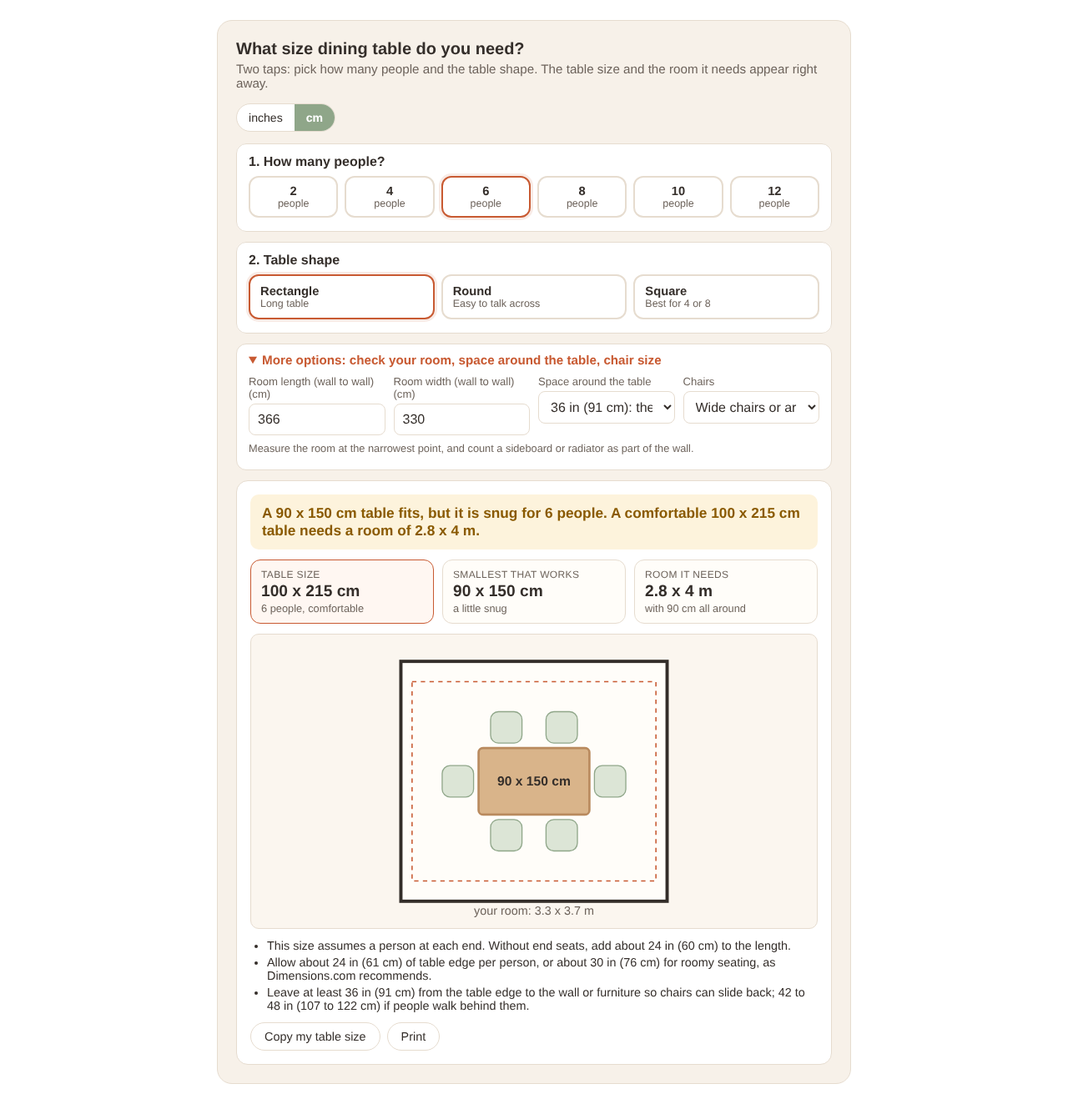
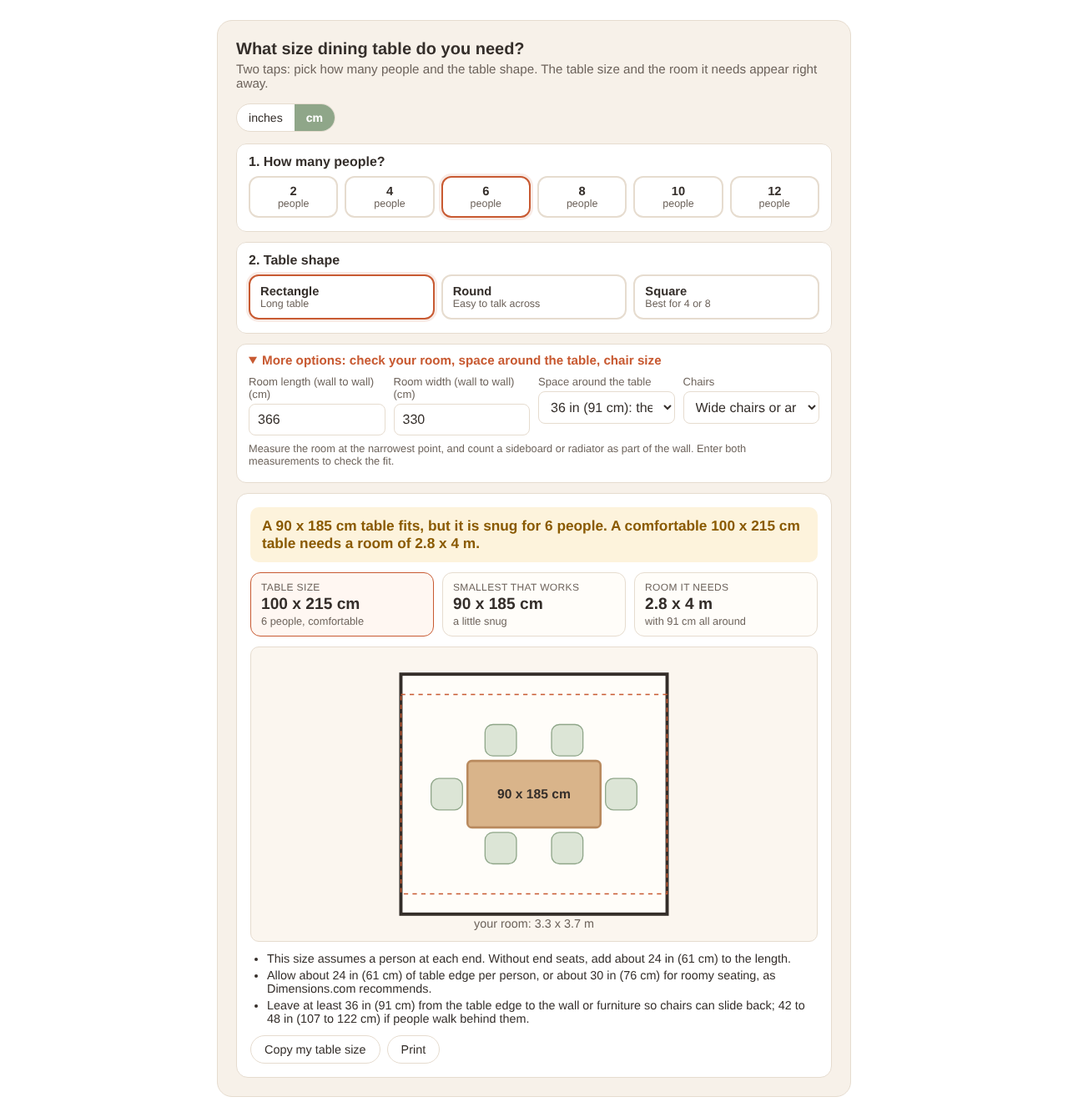
Dining table: fact-check fixes live, embed page 2789, hub section, tests
Claude-Session: https://claude.ai/code/session_01NA5LVV4VZ27gRjP7KysXbg

Changed region(s): [[0.2188, 0.031, 0.7812, 0.7742], [0.25, 0.7742, 0.75, 0.96]]

diff --git a/tools/dining-table/content.html b/tools/dining-table/content.html
@@ -81,7 +81,7 @@
 <label><span>Space around the table</span><select id="cl"><option value="36" selected>36 in (91 cm): the usual minimum</option><option value="42">42 in (107 cm): easier to walk behind chairs</option><option value="48">48 in (122 cm): busy room or big chairs</option><option value="60">60 in (152 cm): wheelchair access</option></select></label>
 <label><span>Chairs</span><select id="cs"><option value="0" selected>Standard dining chairs</option><option value="1">Wide chairs or armchairs</option></select></label>
 </div>
-<p class="hint">Measure the room at the narrowest point, and count a sideboard or radiator as part of the wall.</p>
+<p class="hint">Measure the room at the narrowest point, and count a sideboard or radiator as part of the wall. Enter both measurements to check the fit.</p>
 </details>
 <div class="res" aria-live="polite">
 <div id="vv" class="verdict"></div>
@@ -106,6 +106,7 @@ function g(i){var v=parseFloat($(i).value);return isNaN(v)?null:v}
 function toIn(v){return unit==='cm'?v/CM:v}
 function f1(x){if(unit==='cm'){return Math.round(x*CM/5)*5+' cm'}return Math.round(x)+' in'}
 function ft(x){var f=Math.floor(x/12),i=Math.round(x-f*12);if(i===12){f=f+1;i=0}return f+' ft'+(i?' '+i+' in':'')}
+function fc(x){return unit==='cm'?Math.round(x*CM)+' cm':x+' in'}
 function room(w,l){if(unit==='cm'){return (Math.round(w*CM/10)/10)+' x '+(Math.round(l*CM/10)/10)+' m'}return ft(w)+' x '+ft(l)}
 function sz(t){if(t[2]){return f1(t[0])+' round'}if(unit==='cm'){return Math.round(t[0]*CM/5)*5+' x '+Math.round(t[1]*CM/5)*5+' cm'}return Math.round(t[0])+' x '+Math.round(t[1])+' in'}
 function sizes(){if(shape==='round'){var r=ROUND[n];return [[r[0],r[0],1],[r[1],r[1],1]]}if(shape==='square'){var s=SQ[n];return [[s[0],s[0]],[s[1],s[1]]]}return [RECT[n][0],RECT[n][1]]}
@@ -118,24 +119,24 @@ s+='<rect width="'+W+'" height="'+Hh+'" fill="#FBF6EF"/>';
 s+='<rect x="'+x0+'" y="'+y0+'" width="'+(ol*sc)+'" height="'+(ow*sc)+'" fill="#FFFDF9" stroke="'+(rw?'#342E2A':'#B98A5E')+'" stroke-width="'+(rw?3:1.5)+'"'+(rw?'':' stroke-dasharray="6 4"')+'/>';
 var cx=x0+ol*sc/2,cy=y0+ow*sc/2,tw=t[1]*sc,th=t[0]*sc,ch=16*sc,cw=17*sc;
 s+='<rect x="'+(cx-tw/2-c*sc)+'" y="'+(cy-th/2-c*sc)+'" width="'+(tw+2*c*sc)+'" height="'+(th+2*c*sc)+'" fill="none" stroke="#C85A32" stroke-dasharray="4 4" stroke-width="1.2"'+(t[2]?' rx="'+(tw/2+c*sc)+'"':'')+'/>';
-var seats=[];if(t[2]){for(var k=0;k<n;k++){var a=2*Math.PI*k/n,r=tw/2+ch*0.7;seats.push([cx+r*Math.cos(a),cy+r*Math.sin(a)])}}else{var ends=(shape==='rect'?n>=6:false)?2:0;var side=Math.ceil((n-ends)/2),lower=n-ends-side;for(var i=0;i<side;i++){seats.push([cx-tw/2+tw*(i+0.5)/side,cy-th/2-ch*0.7])}for(var j=0;j<lower;j++){seats.push([cx-tw/2+tw*(j+0.5)/lower,cy+th/2+ch*0.7])}if(ends){seats.push([cx-tw/2-ch*0.7,cy]);seats.push([cx+tw/2+ch*0.7,cy])}}
+var seats=[];if(t[2]){for(var k=0;k<n;k++){var a=2*Math.PI*k/n,r=tw/2+ch*0.7;seats.push([cx+r*Math.cos(a),cy+r*Math.sin(a)])}}else{var cnt=[0,0,0,0];if(shape==='square'){for(var q=0;q<n;q++){cnt[q%4]++}}else{var ends=n>=6?2:0;cnt[0]=Math.ceil((n-ends)/2);cnt[1]=n-ends-cnt[0];cnt[2]=ends/2;cnt[3]=ends/2}for(var i=0;i<cnt[0];i++){seats.push([cx-tw/2+tw*(i+0.5)/cnt[0],cy-th/2-ch*0.7])}for(var j=0;j<cnt[1];j++){seats.push([cx-tw/2+tw*(j+0.5)/cnt[1],cy+th/2+ch*0.7])}for(var m=0;m<cnt[2];m++){seats.push([cx-tw/2-ch*0.7,cy-th/2+th*(m+0.5)/cnt[2]])}for(var o=0;o<cnt[3];o++){seats.push([cx+tw/2+ch*0.7,cy-th/2+th*(o+0.5)/cnt[3]])}}
 seats.forEach(function(p){s+='<rect x="'+(p[0]-cw/2)+'" y="'+(p[1]-cw/2)+'" width="'+cw+'" height="'+cw+'" rx="'+(cw/4)+'" fill="#DCE5D6" stroke="#8FA689"/>'});
 if(t[2]){s+='<circle cx="'+cx+'" cy="'+cy+'" r="'+(tw/2)+'" fill="#D9B48A" stroke="#B98A5E" stroke-width="2"/>'}else{s+='<rect x="'+(cx-tw/2)+'" y="'+(cy-th/2)+'" width="'+tw+'" height="'+th+'" rx="4" fill="#D9B48A" stroke="#B98A5E" stroke-width="2"/>'}
 s+='<text x="'+cx+'" y="'+(cy+4)+'" font-size="12" font-weight="700" text-anchor="middle" fill="#342E2A">'+sz(t)+'</text>';
 s+='<text x="'+(W/2)+'" y="'+(Hh-8)+'" font-size="11" text-anchor="middle" fill="#6E645C">'+(rw?'your room: ':'room needed: ')+room(ow,ol)+'</text>';
 return s+'</svg>'}
 function calc(){var c=parseFloat($('cl').value),wide=$('cs').value==='1';
-var sz2=sizes(),mn=sz2[0],cf=sz2[1];if(wide){cf=[cf[0]+(shape==='rect'?0:6),cf[1]+(shape==='rect'?12:6),cf[2]]}
+var sz2=sizes(),mn=sz2[0],cf=sz2[1];if(wide){cf=[cf[0]+(shape==='rect'?0:6),cf[1]+(shape==='rect'?12:6),cf[2]];mn=[mn[0]+(shape==='rect'?0:6),mn[1]+(shape==='rect'?12:6),mn[2]]}
 var need=[cf[0]+2*c,cf[1]+2*c];
 var a=g('rl'),b=g('rw'),rl=null,rw=null;if(a!==null?b!==null:false){a=toIn(a);b=toIn(b);rl=Math.max(a,b);rw=Math.min(a,b)}
 $('kt').textContent=sz(cf);$('kte').textContent=n+' people, comfortable';$('km').textContent=sz(mn);
-$('kr').textContent=room(need[0],need[1]);$('kre').textContent='with '+f1(c)+' all around';
+$('kr').textContent=room(need[0],need[1]);$('kre').textContent='with '+fc(c)+' all around';
 var vv=$('vv');vv.className='verdict';var tips=[],show=cf;
 if(rl===null){vv.textContent='For '+n+' people, choose a '+(shape==='round'?'round':shape==='square'?'square':'rectangular')+' table about '+sz(cf)+'. The room should be at least '+room(need[0],need[1])+'.'}
 else{var mw=rw-2*c,ml=rl-2*c;
-if(cf[0]<=mw+0.01?cf[1]<=ml+0.01:false){vv.textContent='A '+sz(cf)+' table fits your room, with '+f1(c)+' or more all around.'}
+if(cf[0]<=mw+0.01?cf[1]<=ml+0.01:false){vv.textContent='A '+sz(cf)+' table fits your room, with '+fc(c)+' or more all around.'}
 else if(mn[0]<=mw+0.01?mn[1]<=ml+0.01:false){vv.className='verdict amb';show=mn;vv.textContent='A '+sz(mn)+' table fits, but it is snug for '+n+' people. A comfortable '+sz(cf)+' table needs a room of '+room(need[0],need[1])+'.'}
-else{vv.className='verdict bad';var k=seatsFit(mw,ml);show=null;vv.textContent=(mw>=24?'The largest table that fits is about '+(shape==='round'?f1(Math.min(mw,ml))+' round':(shape==='square'?f1(Math.min(mw,ml))+' square':Math.round(unit==='cm'?mw*CM:mw)+' x '+Math.round(unit==='cm'?ml*CM:ml)+(unit==='cm'?' cm':' in')))+(k?', which seats about '+k+'.':', too small for a dining table.'):'This room is too narrow for a dining table once you leave '+f1(c)+' around it.')+' Try fewer people, a round table, a bench or less space around the table.'}}
+else{vv.className='verdict bad';var k=seatsFit(mw,ml);show=null;vv.textContent=(mw>=24?'The largest table that fits is about '+(shape==='round'?f1(Math.min(mw,ml))+' round':(shape==='square'?f1(Math.min(mw,ml))+' square':(unit==='cm'?Math.round(mw*CM/5)*5:Math.round(mw))+' x '+(unit==='cm'?Math.round(ml*CM/5)*5:Math.round(ml))+(unit==='cm'?' cm':' in')))+(k?', which seats about '+k+'.':', too small for a dining table.'):'This room is too narrow for a dining table once you leave '+fc(c)+' around it.')+' Try fewer people, '+(shape==='round'?'':'a round table, ')+'a bench or less space around the table.'}}
 if(shape==='round'?n>=10:false){tips.push('Round tables for 10 or more get very wide, and the center is hard to reach. A rectangle or oval often works better.')}
 if(shape==='square'?(n===6||n>=10):false){tips.push('Square tables suit 4 or 8 people best. For '+n+', a rectangle usually uses the space better.')}
 if(shape==='rect'?n>=6:false){tips.push('This size assumes a person at each end. Without end seats, add about 24 in (61 cm) to the length.')}
@@ -144,7 +145,7 @@ tips.push('Leave at least 36 in (91 cm) from the table edge to the wall or furni
 if(n>=8){tips.push('Hosting only a few times a year? An extending table can seat '+n+' when needed and stay smaller every day.')}
 $('tp').innerHTML=tips.map(function(t){return '<li>'+t+'</li>'}).join('');
 $('vz').innerHTML=show?svg(show,c,rw,rl):svg(mn,c,rw,rl);
-summary='Dining table for '+n+' ('+shape+'): '+sz(cf)+' comfortable, '+sz(mn)+' minimum. Room needed: '+room(need[0],need[1])+' with '+f1(c)+' around the table. dailyspacehacks.com/dining-table-size-calculator/'}
+summary='Dining table for '+n+' ('+shape+'): '+sz(cf)+' comfortable, '+sz(mn)+' minimum. Room needed: '+room(need[0],need[1])+' with '+fc(c)+' around the table. dailyspacehacks.com/dining-table-size-calculator/'}
 R.querySelectorAll('[data-n]').forEach(function(x){x.addEventListener('click',function(){n=parseInt(x.getAttribute('data-n'),10);R.querySelectorAll('[data-n]').forEach(function(y){y.classList.toggle('on',y===x)});calc()})});
 R.querySelectorAll('[data-s]').forEach(function(x){x.addEventListener('click',function(){shape=x.getAttribute('data-s');R.querySelectorAll('[data-s]').forEach(function(y){y.classList.toggle('on',y===x)});calc()})});
 R.querySelectorAll('[data-u]').forEach(function(x){x.addEventListener('click',function(){setUnit(x.getAttribute('data-u'));calc()})});
@@ -169,7 +170,7 @@ lbl();calc();
 <!-- /wp:table -->
 
 <!-- wp:paragraph -->
-<p>The sizes follow the typical ranges in Raymour &amp; Flanigan's <a href="https://www.raymourflanigan.com/blog/expertise/guides/dining-table-size-guide" target="_blank" rel="noopener">dining table size guide</a>: rectangular tables about 60 to 72 inches long for 4 to 6 people, 84 inches for 6 to 8 and 96 inches for 8 to 10, and round tables 36 to 44 inches across for up to 4 people, 44 to 54 inches for 4 to 6 and 54 to 60 inches for 6 to 8. The guide gives no sizes for 2 or 12 people, or for round tables seating 10 or more, so those rows are our own estimates.</p>
+<p>The sizes follow the typical ranges in Raymour &amp; Flanigan's <a href="https://www.raymourflanigan.com/blog/expertise/guides/dining-table-size-guide" target="_blank" rel="noopener">dining table size guide</a>: rectangular tables about 60 to 72 inches long for 4 to 6 people, 84 inches for 6 to 8 and 96 inches for 8 to 10, and round tables 36 to 44 inches across for up to 4 people, 44 to 54 inches for 4 to 6 and 54 to 60 inches for 6 to 8. The guide gives no rectangle sizes for 2 or 12 people or round sizes for 10 or more, and our 108 in table for 10 is roomier than its 96 in, so those sizes are our own estimates.</p>
 <!-- /wp:paragraph -->
 
 <!-- wp:image {"id":2748,"sizeSlug":"full","linkDestination":"none"} -->
@@ -182,7 +183,7 @@ lbl();calc();
 
 <!-- wp:list -->
 <ul class="wp-block-list"><!-- wp:list-item -->
-<li><strong>Space per person.</strong> Dimensions.com gives a <a href="https://dimensions.com/element/dining-room-clearances" target="_blank" rel="noopener">place setting width</a> of at least 24 in (61 cm) per person and 30 in (76 cm) for the most comfortable spacing. The smallest size is based on about 24 in per person, the comfortable size on more.</li>
+<li><strong>Space per person.</strong> Dimensions.com gives a <a href="https://dimensions.com/element/dining-room-clearances" target="_blank" rel="noopener">place setting width</a> of at least 24 in (61 cm) per person and 30 in (76 cm) for the most comfortable spacing. For rectangles, the smallest size allows about 24 in per person and the comfortable size more; round and square sizes follow Raymour &amp; Flanigan's ranges where it gives them.</li>
 <!-- /wp:list-item -->
 <!-- wp:list-item -->
 <li><strong>End seats.</strong> For 6 or more people at a rectangle, the calculator assumes one person at each end. Without end seats, add about 24 in (61 cm) to the length.</li>
@@ -229,7 +230,7 @@ lbl();calc();
 <li><strong>Rectangular tables</strong> fit long, narrow rooms and seat the most people. An extending table can seat extra guests and stay compact every day.</li>
 <!-- /wp:list-item -->
 <!-- wp:list-item -->
-<li><strong>Benches</strong> slide fully under the table, so they save space in a tight room, and children can squeeze up on them.</li>
+<li><strong>Benches</strong> slide fully under the table, so they save space in a tight room, and children can squeeze in.</li>
 <!-- /wp:list-item --></ul>
 <!-- /wp:list -->
 
@@ -285,7 +286,7 @@ lbl();calc();
 <!-- /wp:heading -->
 
 <!-- wp:paragraph -->
-<p>A round table 36 to 44 inches (90 to 110 cm) across seats four people. Choose the larger size if you like room for serving dishes, and leave at least 36 inches (91 cm) around it, so the dining area needs to be about 9 to 10 feet (2.7 to 3 m) square.</p>
+<p>A round table 36 to 44 inches (90 to 110 cm) across seats four people. Choose the larger size if you like room for serving dishes, and leave at least 36 inches (91 cm) around it, so the dining area needs to be about 9 ft to 9 ft 8 in (2.7 to 2.9 m) square.</p>
 <!-- /wp:paragraph -->
 
 <!-- wp:heading {"level":3} -->

diff --git a/tools/embed/out/page-dining-table.html b/tools/embed/out/page-dining-table.html
@@ -86,7 +86,7 @@ body.dsh-embed .dsh-calc .viz svg{max-height:340px}
 <label><span>Space around the table</span><select id="cl"><option value="36" selected>36 in (91 cm): the usual minimum</option><option value="42">42 in (107 cm): easier to walk behind chairs</option><option value="48">48 in (122 cm): busy room or big chairs</option><option value="60">60 in (152 cm): wheelchair access</option></select></label>
 <label><span>Chairs</span><select id="cs"><option value="0" selected>Standard dining chairs</option><option value="1">Wide chairs or armchairs</option></select></label>
 </div>
-<p class="hint">Measure the room at the narrowest point, and count a sideboard or radiator as part of the wall.</p>
+<p class="hint">Measure the room at the narrowest point, and count a sideboard or radiator as part of the wall. Enter both measurements to check the fit.</p>
 </details>
 <div class="res" aria-live="polite">
 <div id="vv" class="verdict"></div>
@@ -111,6 +111,7 @@ function g(i){var v=parseFloat($(i).value);return isNaN(v)?null:v}
 function toIn(v){return unit==='cm'?v/CM:v}
 function f1(x){if(unit==='cm'){return Math.round(x*CM/5)*5+' cm'}return Math.round(x)+' in'}
 function ft(x){var f=Math.floor(x/12),i=Math.round(x-f*12);if(i===12){f=f+1;i=0}return f+' ft'+(i?' '+i+' in':'')}
+function fc(x){return unit==='cm'?Math.round(x*CM)+' cm':x+' in'}
 function room(w,l){if(unit==='cm'){return (Math.round(w*CM/10)/10)+' x '+(Math.round(l*CM/10)/10)+' m'}return ft(w)+' x '+ft(l)}
 function sz(t){if(t[2]){return f1(t[0])+' round'}if(unit==='cm'){return Math.round(t[0]*CM/5)*5+' x '+Math.round(t[1]*CM/5)*5+' cm'}return Math.round(t[0])+' x '+Math.round(t[1])+' in'}
 function sizes(){if(shape==='round'){var r=ROUND[n];return [[r[0],r[0],1],[r[1],r[1],1]]}if(shape==='square'){var s=SQ[n];return [[s[0],s[0]],[s[1],s[1]]]}return [RECT[n][0],RECT[n][1]]}
@@ -123,24 +124,24 @@ s+='<rect width="'+W+'" height="'+Hh+'" fill="#FBF6EF"/>';
 s+='<rect x="'+x0+'" y="'+y0+'" width="'+(ol*sc)+'" height="'+(ow*sc)+'" fill="#FFFDF9" stroke="'+(rw?'#342E2A':'#B98A5E')+'" stroke-width="'+(rw?3:1.5)+'"'+(rw?'':' stroke-dasharray="6 4"')+'/>';
 var cx=x0+ol*sc/2,cy=y0+ow*sc/2,tw=t[1]*sc,th=t[0]*sc,ch=16*sc,cw=17*sc;
 s+='<rect x="'+(cx-tw/2-c*sc)+'" y="'+(cy-th/2-c*sc)+'" width="'+(tw+2*c*sc)+'" height="'+(th+2*c*sc)+'" fill="none" stroke="#C85A32" stroke-dasharray="4 4" stroke-width="1.2"'+(t[2]?' rx="'+(tw/2+c*sc)+'"':'')+'/>';
-var seats=[];if(t[2]){for(var k=0;k<n;k++){var a=2*Math.PI*k/n,r=tw/2+ch*0.7;seats.push([cx+r*Math.cos(a),cy+r*Math.sin(a)])}}else{var ends=(shape==='rect'?n>=6:false)?2:0;var side=Math.ceil((n-ends)/2),lower=n-ends-side;for(var i=0;i<side;i++){seats.push([cx-tw/2+tw*(i+0.5)/side,cy-th/2-ch*0.7])}for(var j=0;j<lower;j++){seats.push([cx-tw/2+tw*(j+0.5)/lower,cy+th/2+ch*0.7])}if(ends){seats.push([cx-tw/2-ch*0.7,cy]);seats.push([cx+tw/2+ch*0.7,cy])}}
+var seats=[];if(t[2]){for(var k=0;k<n;k++){var a=2*Math.PI*k/n,r=tw/2+ch*0.7;seats.push([cx+r*Math.cos(a),cy+r*Math.sin(a)])}}else{var cnt=[0,0,0,0];if(shape==='square'){for(var q=0;q<n;q++){cnt[q%4]++}}else{var ends=n>=6?2:0;cnt[0]=Math.ceil((n-ends)/2);cnt[1]=n-ends-cnt[0];cnt[2]=ends/2;cnt[3]=ends/2}for(var i=0;i<cnt[0];i++){seats.push([cx-tw/2+tw*(i+0.5)/cnt[0],cy-th/2-ch*0.7])}for(var j=0;j<cnt[1];j++){seats.push([cx-tw/2+tw*(j+0.5)/cnt[1],cy+th/2+ch*0.7])}for(var m=0;m<cnt[2];m++){seats.push([cx-tw/2-ch*0.7,cy-th/2+th*(m+0.5)/cnt[2]])}for(var o=0;o<cnt[3];o++){seats.push([cx+tw/2+ch*0.7,cy-th/2+th*(o+0.5)/cnt[3]])}}
 seats.forEach(function(p){s+='<rect x="'+(p[0]-cw/2)+'" y="'+(p[1]-cw/2)+'" width="'+cw+'" height="'+cw+'" rx="'+(cw/4)+'" fill="#DCE5D6" stroke="#8FA689"/>'});
 if(t[2]){s+='<circle cx="'+cx+'" cy="'+cy+'" r="'+(tw/2)+'" fill="#D9B48A" stroke="#B98A5E" stroke-width="2"/>'}else{s+='<rect x="'+(cx-tw/2)+'" y="'+(cy-th/2)+'" width="'+tw+'" height="'+th+'" rx="4" fill="#D9B48A" stroke="#B98A5E" stroke-width="2"/>'}
 s+='<text x="'+cx+'" y="'+(cy+4)+'" font-size="12" font-weight="700" text-anchor="middle" fill="#342E2A">'+sz(t)+'</text>';
 s+='<text x="'+(W/2)+'" y="'+(Hh-8)+'" font-size="11" text-anchor="middle" fill="#6E645C">'+(rw?'your room: ':'room needed: ')+room(ow,ol)+'</text>';
 return s+'</svg>'}
 function calc(){var c=parseFloat($('cl').value),wide=$('cs').value==='1';
-var sz2=sizes(),mn=sz2[0],cf=sz2[1];if(wide){cf=[cf[0]+(shape==='rect'?0:6),cf[1]+(shape==='rect'?12:6),cf[2]]}
+var sz2=sizes(),mn=sz2[0],cf=sz2[1];if(wide){cf=[cf[0]+(shape==='rect'?0:6),cf[1]+(shape==='rect'?12:6),cf[2]];mn=[mn[0]+(shape==='rect'?0:6),mn[1]+(shape==='rect'?12:6),mn[2]]}
 var need=[cf[0]+2*c,cf[1]+2*c];
 var a=g('rl'),b=g('rw'),rl=null,rw=null;if(a!==null?b!==null:false){a=toIn(a);b=toIn(b);rl=Math.max(a,b);rw=Math.min(a,b)}
 $('kt').textContent=sz(cf);$('kte').textContent=n+' people, comfortable';$('km').textContent=sz(mn);
-$('kr').textContent=room(need[0],need[1]);$('kre').textContent='with '+f1(c)+' all around';
+$('kr').textContent=room(need[0],need[1]);$('kre').textContent='with '+fc(c)+' all around';
 var vv=$('vv');vv.className='verdict';var tips=[],show=cf;
 if(rl===null){vv.textContent='For '+n+' people, choose a '+(shape==='round'?'round':shape==='square'?'square':'rectangular')+' table about '+sz(cf)+'. The room should be at least '+room(need[0],need[1])+'.'}
 else{var mw=rw-2*c,ml=rl-2*c;
-if(cf[0]<=mw+0.01?cf[1]<=ml+0.01:false){vv.textContent='A '+sz(cf)+' table fits your room, with '+f1(c)+' or more all around.'}
+if(cf[0]<=mw+0.01?cf[1]<=ml+0.01:false){vv.textContent='A '+sz(cf)+' table fits your room, with '+fc(c)+' or more all around.'}
 else if(mn[0]<=mw+0.01?mn[1]<=ml+0.01:false){vv.className='verdict amb';show=mn;vv.textContent='A '+sz(mn)+' table fits, but it is snug for '+n+' people. A comfortable '+sz(cf)+' table needs a room of '+room(need[0],need[1])+'.'}
-else{vv.className='verdict bad';var k=seatsFit(mw,ml);show=null;vv.textContent=(mw>=24?'The largest table that fits is about '+(shape==='round'?f1(Math.min(mw,ml))+' round':(shape==='square'?f1(Math.min(mw,ml))+' square':Math.round(unit==='cm'?mw*CM:mw)+' x '+Math.round(unit==='cm'?ml*CM:ml)+(unit==='cm'?' cm':' in')))+(k?', which seats about '+k+'.':', too small for a dining table.'):'This room is too narrow for a dining table once you leave '+f1(c)+' around it.')+' Try fewer people, a round table, a bench or less space around the table.'}}
+else{vv.className='verdict bad';var k=seatsFit(mw,ml);show=null;vv.textContent=(mw>=24?'The largest table that fits is about '+(shape==='round'?f1(Math.min(mw,ml))+' round':(shape==='square'?f1(Math.min(mw,ml))+' square':(unit==='cm'?Math.round(mw*CM/5)*5:Math.round(mw))+' x '+(unit==='cm'?Math.round(ml*CM/5)*5:Math.round(ml))+(unit==='cm'?' cm':' in')))+(k?', which seats about '+k+'.':', too small for a dining table.'):'This room is too narrow for a dining table once you leave '+fc(c)+' around it.')+' Try fewer people, '+(shape==='round'?'':'a round table, ')+'a bench or less space around the table.'}}
 if(shape==='round'?n>=10:false){tips.push('Round tables for 10 or more get very wide, and the center is hard to reach. A rectangle or oval often works better.')}
 if(shape==='square'?(n===6||n>=10):false){tips.push('Square tables suit 4 or 8 people best. For '+n+', a rectangle usually uses the space better.')}
 if(shape==='rect'?n>=6:false){tips.push('This size assumes a person at each end. Without end seats, add about 24 in (61 cm) to the length.')}
@@ -149,7 +150,7 @@ tips.push('Leave at least 36 in (91 cm) from the table edge to the wall or furni
 if(n>=8){tips.push('Hosting only a few times a year? An extending table can seat '+n+' when needed and stay smaller every day.')}
 $('tp').innerHTML=tips.map(function(t){return '<li>'+t+'</li>'}).join('');
 $('vz').innerHTML=show?svg(show,c,rw,rl):svg(mn,c,rw,rl);
-summary='Dining table for '+n+' ('+shape+'): '+sz(cf)+' comfortable, '+sz(mn)+' minimum. Room needed: '+room(need[0],need[1])+' with '+f1(c)+' around the table. dailyspacehacks.com/dining-table-size-calculator/'}
+summary='Dining table for '+n+' ('+shape+'): '+sz(cf)+' comfortable, '+sz(mn)+' minimum. Room needed: '+room(need[0],need[1])+' with '+fc(c)+' around the table. dailyspacehacks.com/dining-table-size-calculator/'}
 R.querySelectorAll('[data-n]').forEach(function(x){x.addEventListener('click',function(){n=parseInt(x.getAttribute('data-n'),10);R.querySelectorAll('[data-n]').forEach(function(y){y.classList.toggle('on',y===x)});calc()})});
 R.querySelectorAll('[data-s]').forEach(function(x){x.addEventListener('click',function(){shape=x.getAttribute('data-s');R.querySelectorAll('[data-s]').forEach(function(y){y.classList.toggle('on',y===x)});calc()})});
 R.querySelectorAll('[data-u]').forEach(function(x){x.addEventListener('click',function(){setUnit(x.getAttribute('data-u'));calc()})});

diff --git a/tools/dining-table/tool.html b/tools/dining-table/tool.html
@@ -72,7 +72,7 @@
 <label><span>Space around the table</span><select id="cl"><option value="36" selected>36 in (91 cm): the usual minimum</option><option value="42">42 in (107 cm): easier to walk behind chairs</option><option value="48">48 in (122 cm): busy room or big chairs</option><option value="60">60 in (152 cm): wheelchair access</option></select></label>
 <label><span>Chairs</span><select id="cs"><option value="0" selected>Standard dining chairs</option><option value="1">Wide chairs or armchairs</option></select></label>
 </div>
-<p class="hint">Measure the room at the narrowest point, and count a sideboard or radiator as part of the wall.</p>
+<p class="hint">Measure the room at the narrowest point, and count a sideboard or radiator as part of the wall. Enter both measurements to check the fit.</p>
 </details>
 <div class="res" aria-live="polite">
 <div id="vv" class="verdict"></div>
@@ -97,6 +97,7 @@ function g(i){var v=parseFloat($(i).value);return isNaN(v)?null:v}
 function toIn(v){return unit==='cm'?v/CM:v}
 function f1(x){if(unit==='cm'){return Math.round(x*CM/5)*5+' cm'}return Math.round(x)+' in'}
 function ft(x){var f=Math.floor(x/12),i=Math.round(x-f*12);if(i===12){f=f+1;i=0}return f+' ft'+(i?' '+i+' in':'')}
+function fc(x){return unit==='cm'?Math.round(x*CM)+' cm':x+' in'}
 function room(w,l){if(unit==='cm'){return (Math.round(w*CM/10)/10)+' x '+(Math.round(l*CM/10)/10)+' m'}return ft(w)+' x '+ft(l)}
 function sz(t){if(t[2]){return f1(t[0])+' round'}if(unit==='cm'){return Math.round(t[0]*CM/5)*5+' x '+Math.round(t[1]*CM/5)*5+' cm'}return Math.round(t[0])+' x '+Math.round(t[1])+' in'}
 function sizes(){if(shape==='round'){var r=ROUND[n];return [[r[0],r[0],1],[r[1],r[1],1]]}if(shape==='square'){var s=SQ[n];return [[s[0],s[0]],[s[1],s[1]]]}return [RECT[n][0],RECT[n][1]]}
@@ -109,24 +110,24 @@ s+='<rect width="'+W+'" height="'+Hh+'" fill="#FBF6EF"/>';
 s+='<rect x="'+x0+'" y="'+y0+'" width="'+(ol*sc)+'" height="'+(ow*sc)+'" fill="#FFFDF9" stroke="'+(rw?'#342E2A':'#B98A5E')+'" stroke-width="'+(rw?3:1.5)+'"'+(rw?'':' stroke-dasharray="6 4"')+'/>';
 var cx=x0+ol*sc/2,cy=y0+ow*sc/2,tw=t[1]*sc,th=t[0]*sc,ch=16*sc,cw=17*sc;
 s+='<rect x="'+(cx-tw/2-c*sc)+'" y="'+(cy-th/2-c*sc)+'" width="'+(tw+2*c*sc)+'" height="'+(th+2*c*sc)+'" fill="none" stroke="#C85A32" stroke-dasharray="4 4" stroke-width="1.2"'+(t[2]?' rx="'+(tw/2+c*sc)+'"':'')+'/>';
-var seats=[];if(t[2]){for(var k=0;k<n;k++){var a=2*Math.PI*k/n,r=tw/2+ch*0.7;seats.push([cx+r*Math.cos(a),cy+r*Math.sin(a)])}}else{var ends=(shape==='rect'?n>=6:false)?2:0;var side=Math.ceil((n-ends)/2),lower=n-ends-side;for(var i=0;i<side;i++){seats.push([cx-tw/2+tw*(i+0.5)/side,cy-th/2-ch*0.7])}for(var j=0;j<lower;j++){seats.push([cx-tw/2+tw*(j+0.5)/lower,cy+th/2+ch*0.7])}if(ends){seats.push([cx-tw/2-ch*0.7,cy]);seats.push([cx+tw/2+ch*0.7,cy])}}
+var seats=[];if(t[2]){for(var k=0;k<n;k++){var a=2*Math.PI*k/n,r=tw/2+ch*0.7;seats.push([cx+r*Math.cos(a),cy+r*Math.sin(a)])}}else{var cnt=[0,0,0,0];if(shape==='square'){for(var q=0;q<n;q++){cnt[q%4]++}}else{var ends=n>=6?2:0;cnt[0]=Math.ceil((n-ends)/2);cnt[1]=n-ends-cnt[0];cnt[2]=ends/2;cnt[3]=ends/2}for(var i=0;i<cnt[0];i++){seats.push([cx-tw/2+tw*(i+0.5)/cnt[0],cy-th/2-ch*0.7])}for(var j=0;j<cnt[1];j++){seats.push([cx-tw/2+tw*(j+0.5)/cnt[1],cy+th/2+ch*0.7])}for(var m=0;m<cnt[2];m++){seats.push([cx-tw/2-ch*0.7,cy-th/2+th*(m+0.5)/cnt[2]])}for(var o=0;o<cnt[3];o++){seats.push([cx+tw/2+ch*0.7,cy-th/2+th*(o+0.5)/cnt[3]])}}
 seats.forEach(function(p){s+='<rect x="'+(p[0]-cw/2)+'" y="'+(p[1]-cw/2)+'" width="'+cw+'" height="'+cw+'" rx="'+(cw/4)+'" fill="#DCE5D6" stroke="#8FA689"/>'});
 if(t[2]){s+='<circle cx="'+cx+'" cy="'+cy+'" r="'+(tw/2)+'" fill="#D9B48A" stroke="#B98A5E" stroke-width="2"/>'}else{s+='<rect x="'+(cx-tw/2)+'" y="'+(cy-th/2)+'" width="'+tw+'" height="'+th+'" rx="4" fill="#D9B48A" stroke="#B98A5E" stroke-width="2"/>'}
 s+='<text x="'+cx+'" y="'+(cy+4)+'" font-size="12" font-weight="700" text-anchor="middle" fill="#342E2A">'+sz(t)+'</text>';
 s+='<text x="'+(W/2)+'" y="'+(Hh-8)+'" font-size="11" text-anchor="middle" fill="#6E645C">'+(rw?'your room: ':'room needed: ')+room(ow,ol)+'</text>';
 return s+'</svg>'}
 function calc(){var c=parseFloat($('cl').value),wide=$('cs').value==='1';
-var sz2=sizes(),mn=sz2[0],cf=sz2[1];if(wide){cf=[cf[0]+(shape==='rect'?0:6),cf[1]+(shape==='rect'?12:6),cf[2]]}
+var sz2=sizes(),mn=sz2[0],cf=sz2[1];if(wide){cf=[cf[0]+(shape==='rect'?0:6),cf[1]+(shape==='rect'?12:6),cf[2]];mn=[mn[0]+(shape==='rect'?0:6),mn[1]+(shape==='rect'?12:6),mn[2]]}
 var need=[cf[0]+2*c,cf[1]+2*c];
 var a=g('rl'),b=g('rw'),rl=null,rw=null;if(a!==null?b!==null:false){a=toIn(a);b=toIn(b);rl=Math.max(a,b);rw=Math.min(a,b)}
 $('kt').textContent=sz(cf);$('kte').textContent=n+' people, comfortable';$('km').textContent=sz(mn);
-$('kr').textContent=room(need[0],need[1]);$('kre').textContent='with '+f1(c)+' all around';
+$('kr').textContent=room(need[0],need[1]);$('kre').textContent='with '+fc(c)+' all around';
 var vv=$('vv');vv.className='verdict';var tips=[],show=cf;
 if(rl===null){vv.textContent='For '+n+' people, choose a '+(shape==='round'?'round':shape==='square'?'square':'rectangular')+' table about '+sz(cf)+'. The room should be at least '+room(need[0],need[1])+'.'}
 else{var mw=rw-2*c,ml=rl-2*c;
-if(cf[0]<=mw+0.01?cf[1]<=ml+0.01:false){vv.textContent='A '+sz(cf)+' table fits your room, with '+f1(c)+' or more all around.'}
+if(cf[0]<=mw+0.01?cf[1]<=ml+0.01:false){vv.textContent='A '+sz(cf)+' table fits your room, with '+fc(c)+' or more all around.'}
 else if(mn[0]<=mw+0.01?mn[1]<=ml+0.01:false){vv.className='verdict amb';show=mn;vv.textContent='A '+sz(mn)+' table fits, but it is snug for '+n+' people. A comfortable '+sz(cf)+' table needs a room of '+room(need[0],need[1])+'.'}
-else{vv.className='verdict bad';var k=seatsFit(mw,ml);show=null;vv.textContent=(mw>=24?'The largest table that fits is about '+(shape==='round'?f1(Math.min(mw,ml))+' round':(shape==='square'?f1(Math.min(mw,ml))+' square':Math.round(unit==='cm'?mw*CM:mw)+' x '+Math.round(unit==='cm'?ml*CM:ml)+(unit==='cm'?' cm':' in')))+(k?', which seats about '+k+'.':', too small for a dining table.'):'This room is too narrow for a dining table once you leave '+f1(c)+' around it.')+' Try fewer people, a round table, a bench or less space around the table.'}}
+else{vv.className='verdict bad';var k=seatsFit(mw,ml);show=null;vv.textContent=(mw>=24?'The largest table that fits is about '+(shape==='round'?f1(Math.min(mw,ml))+' round':(shape==='square'?f1(Math.min(mw,ml))+' square':(unit==='cm'?Math.round(mw*CM/5)*5:Math.round(mw))+' x '+(unit==='cm'?Math.round(ml*CM/5)*5:Math.round(ml))+(unit==='cm'?' cm':' in')))+(k?', which seats about '+k+'.':', too small for a dining table.'):'This room is too narrow for a dining table once you leave '+fc(c)+' around it.')+' Try fewer people, '+(shape==='round'?'':'a round table, ')+'a bench or less space around the table.'}}
 if(shape==='round'?n>=10:false){tips.push('Round tables for 10 or more get very wide, and the center is hard to reach. A rectangle or oval often works better.')}
 if(shape==='square'?(n===6||n>=10):false){tips.push('Square tables suit 4 or 8 people best. For '+n+', a rectangle usually uses the space better.')}
 if(shape==='rect'?n>=6:false){tips.push('This size assumes a person at each end. Without end seats, add about 24 in (61 cm) to the length.')}
@@ -135,7 +136,7 @@ tips.push('Leave at least 36 in (91 cm) from the table edge to the wall or furni
 if(n>=8){tips.push('Hosting only a few times a year? An extending table can seat '+n+' when needed and stay smaller every day.')}
 $('tp').innerHTML=tips.map(function(t){return '<li>'+t+'</li>'}).join('');
 $('vz').innerHTML=show?svg(show,c,rw,rl):svg(mn,c,rw,rl);
-summary='Dining table for '+n+' ('+shape+'): '+sz(cf)+' comfortable, '+sz(mn)+' minimum. Room needed: '+room(need[0],need[1])+' with '+f1(c)+' around the table. dailyspacehacks.com/dining-table-size-calculator/'}
+summary='Dining table for '+n+' ('+shape+'): '+sz(cf)+' comfortable, '+sz(mn)+' minimum. Room needed: '+room(need[0],need[1])+' with '+fc(c)+' around the table. dailyspacehacks.com/dining-table-size-calculator/'}
 R.querySelectorAll('[data-n]').forEach(function(x){x.addEventListener('click',function(){n=parseInt(x.getAttribute('data-n'),10);R.querySelectorAll('[data-n]').forEach(function(y){y.classList.toggle('on',y===x)});calc()})});
 R.querySelectorAll('[data-s]').forEach(function(x){x.addEventListener('click',function(){shape=x.getAttribute('data-s');R.querySelectorAll('[data-s]').forEach(function(y){y.classList.toggle('on',y===x)});calc()})});
 R.querySelectorAll('[data-u]').forEach(function(x){x.addEventListener('click',function(){setUnit(x.getAttribute('data-u'));calc()})});

diff --git a/tools/embed/test/host.html b/tools/embed/test/host.html
@@ -1,4 +1,4 @@
 <!doctype html><html><head><meta charset="utf-8"><meta name="viewport" content="width=device-width,initial-scale=1"><title>Host</title></head><body style="font-family:Georgia,serif;max-width:760px;margin:30px auto;padding:0 16px;background:#fafafa"><h2>Test</h2>
-<iframe class="dsh-embed" src="https://dailyspacehacks.com/embed-calculators/picture-height/" title="Picture Hanging Height Calculator" width="100%" height="1400" style="border:0;width:100%;max-width:760px;display:block" loading="lazy"></iframe>
-<p style="font-size:13px;margin:6px 0 0"><a href="https://dailyspacehacks.com/picture-hanging-height-calculator/">Picture Hanging Height Calculator</a> by Daily Space Hacks</p>
+<iframe class="dsh-embed" src="https://dailyspacehacks.com/embed-calculators/dining-table/" title="Dining Table Size Calculator" width="100%" height="1300" style="border:0;width:100%;max-width:760px;display:block" loading="lazy"></iframe>
+<p style="font-size:13px;margin:6px 0 0"><a href="https://dailyspacehacks.com/dining-table-size-calculator/">Dining Table Size Calculator</a> by Daily Space Hacks</p>
 <script>window.addEventListener('message',function(e){if(e.origin!=='https://dailyspacehacks.com'||!e.data||!e.data.dshEmbed)return;document.querySelectorAll('iframe.dsh-embed').forEach(function(f){if(f.contentWindow===e.source)f.style.height=e.data.h+'px'})});</script></body></html>

diff --git a/tools/dining-table/sq.js b/tools/dining-table/sq.js
@@ -1,0 +1,4 @@
+const {chromium}=require('playwright');(async()=>{const b=await chromium.launch();const p=await b.newPage({viewport:{width:800,height:900}});
+await p.setContent('<html><body style="font-family:Arial;max-width:760px;margin:auto">'+require('fs').readFileSync('tool.html','utf8')+'</body></html>');
+await p.click('[data-s="square"]');await p.click('[data-n="8"]');const el=p.locator('#vz');await el.screenshot({path:'sq8.png'});
+await p.click('[data-s="rect"]');await p.click('[data-n="10"]');await el.screenshot({path:'r10.png'});await b.close()})();

diff --git a/tools/dining-table/build.py b/tools/dining-table/build.py
@@ -21,10 +21,10 @@ for n in [2,4,6,8,10,12]:
     mn,cf=RECT[n]; r=ROUND[n]
     rows.append([str(n), rs(cf), f"{r[0]} to {r[1]} in ({c5(r[0])} to {c5(r[1])} cm)", f"{ft(cf[0]+72)} x {ft(cf[1]+72)}"])
 table(["People","Rectangle (comfortable)","Round (diameter)","Room for a rectangle, 36 in all around"],rows)
-p(f"The sizes follow the typical ranges in Raymour &amp; Flanigan's {ext(RF,'dining table size guide')}: rectangular tables about 60 to 72 inches long for 4 to 6 people, 84 inches for 6 to 8 and 96 inches for 8 to 10, and round tables 36 to 44 inches across for up to 4 people, 44 to 54 inches for 4 to 6 and 54 to 60 inches for 6 to 8. The guide gives no sizes for 2 or 12 people, or for round tables seating 10 or more, so those rows are our own estimates.")
+p(f"The sizes follow the typical ranges in Raymour &amp; Flanigan's {ext(RF,'dining table size guide')}: rectangular tables about 60 to 72 inches long for 4 to 6 people, 84 inches for 6 to 8 and 96 inches for 8 to 10, and round tables 36 to 44 inches across for up to 4 people, 44 to 54 inches for 4 to 6 and 54 to 60 inches for 6 to 8. The guide gives no rectangle sizes for 2 or 12 people or round sizes for 10 or more, and our 108 in table for 10 is roomier than its 96 in, so those sizes are our own estimates.")
 img(1)
 h2("How the Dining Table Size Calculator Works")
-lst([f"<strong>Space per person.</strong> Dimensions.com gives a {ext(DM,'place setting width')} of at least 24 in (61 cm) per person and 30 in (76 cm) for the most comfortable spacing. The smallest size is based on about 24 in per person, the comfortable size on more.",
+lst([f"<strong>Space per person.</strong> Dimensions.com gives a {ext(DM,'place setting width')} of at least 24 in (61 cm) per person and 30 in (76 cm) for the most comfortable spacing. For rectangles, the smallest size allows about 24 in per person and the comfortable size more; round and square sizes follow Raymour &amp; Flanigan's ranges where it gives them.",
 "<strong>End seats.</strong> For 6 or more people at a rectangle, the calculator assumes one person at each end. Without end seats, add about 24 in (61 cm) to the length.",
 "<strong>Room size</strong> = the table plus the space you choose on every side: 36 in (91 cm) as the usual minimum, 42 to 48 in (107 to 122 cm) for a busy room or large chairs, or 60 in (152 cm) for wheelchair access.",
 "<strong>Wide chairs or armchairs</strong> add about 12 in (30 cm) to the length of a rectangle and 6 in (15 cm) to a round or square table. This is our own rule of thumb.",
@@ -40,7 +40,7 @@ h2("Round, Square or Rectangular Table?")
 lst(["<strong>Round tables</strong> suit small rooms and square rooms, have no corners to bump into and make conversation easy. Above about 60 in (152 cm) across, the center gets hard to reach.",
 "<strong>Square tables</strong> work best for 4 people, or 8 on a large table. For 6 people, a rectangle usually uses the space better.",
 "<strong>Rectangular tables</strong> fit long, narrow rooms and seat the most people. An extending table can seat extra guests and stay compact every day.",
-"<strong>Benches</strong> slide fully under the table, so they save space in a tight room, and children can squeeze up on them."])
+"<strong>Benches</strong> slide fully under the table, so they save space in a tight room, and children can squeeze in."])
 h2("Before You Buy a Dining Table")
 lst(["<strong>Tape it out.</strong> Mark the table size on the floor with painter's tape, put the chairs around it and walk around it for a day.",
 "<strong>Check the legs.</strong> Legs at the corners leave the long sides free; a pedestal base fits more chairs around a round table.",
@@ -54,7 +54,7 @@ p("A rectangular table about 36 to 40 inches wide and 60 to 72 inches long (90 t
 h3("How much room do you need for a dining table?")
 p("Add at least 36 inches (91 cm) to every side of the table, or 42 to 48 inches (107 to 122 cm) if people walk behind the chairs. A 40 x 72 inch table therefore needs a dining area of about 9 ft 4 in x 12 ft (2.8 x 3.7 m).")
 h3("What size round table seats 4?")
-p("A round table 36 to 44 inches (90 to 110 cm) across seats four people. Choose the larger size if you like room for serving dishes, and leave at least 36 inches (91 cm) around it, so the dining area needs to be about 9 to 10 feet (2.7 to 3 m) square.")
+p("A round table 36 to 44 inches (90 to 110 cm) across seats four people. Choose the larger size if you like room for serving dishes, and leave at least 36 inches (91 cm) around it, so the dining area needs to be about 9 ft to 9 ft 8 in (2.7 to 2.9 m) square.")
 h3("How many people fit at an 8 ft table?")
 p("An 8 ft (96 inch, about 245 cm) rectangular table seats 8 people comfortably, with three on each side and one at each end, and can squeeze in 10 with narrower spacing. Raymour & Flanigan lists 96 inch tables for 8 to 10 people.".replace("&","&amp;"))
 h2("More Room Planning Tools")
